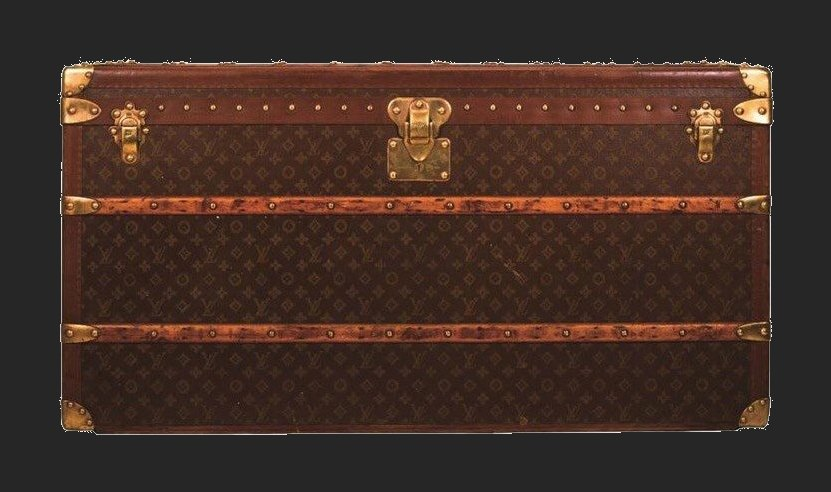
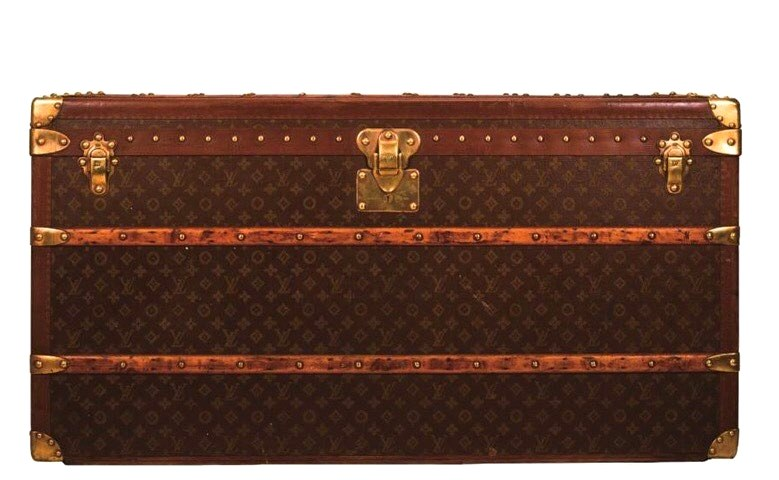
Collections: colour photos, two-per-page arrow pagination, drop items 10-14
- Remove catalogued pieces 10-14 (9 trunks remain).
- Revert trunk photos to colour (re-extracted from PDF, mild contrast/colour
  lift); no charcoal, no grayscale, no letterbox bars — natural aspect on white.
- Replace the endless-scroll list with a pager: two pieces per page, prev/next
  arrows and a NN / NN indicator.
- Gallery (In Context) now renders in colour.

diff --git a/pages/Collections.tsx b/pages/Collections.tsx
@@ -1,4 +1,5 @@
-import React from 'react';
+import React, { useState } from 'react';
+import { ChevronLeft, ChevronRight } from 'lucide-react';
 import { useLanguage } from '../contexts/LanguageContext';
 import {
   collectionIntro,
@@ -7,63 +8,85 @@ import {
   galleryImages,
 } from '../data/collection';
 
-const CHARCOAL = '#262626';
+const PER_PAGE = 2;
 
 const Collections: React.FC = () => {
   const { t, language } = useLanguage();
   const pick = (v: Partial<Record<string, string>> & { en: string }) =>
     v[language] ?? v.en;
 
+  const [page, setPage] = useState(0);
+  const pageCount = Math.ceil(trunkItems.length / PER_PAGE);
+  const start = page * PER_PAGE;
+  const visible = trunkItems.slice(start, start + PER_PAGE);
+
   return (
     <div className="max-w-6xl mx-auto pt-24 pb-16 px-6 lg:px-12 fade-in">
-      <header className="mb-24">
+      <header className="mb-16">
         <h1 className="text-4xl font-display uppercase tracking-widest mb-3">{t.collections.header}</h1>
         <p className="text-2xl font-serif text-ink-black mb-2">{pick(collectionIntro.title)}</p>
         <p className="font-serif text-gray-500 italic max-w-xl">{pick(collectionIntro.subtitle)}</p>
       </header>
 
-      {/* Catalogued pieces — large alternating showcase with hover motion */}
-      <div className="space-y-24 md:space-y-32">
-        {trunkItems.map((item, index) => (
-          <div
-            key={item.id}
-            className={`flex flex-col ${index % 2 === 0 ? 'md:flex-row' : 'md:flex-row-reverse'} gap-10 lg:gap-16 group items-center`}
-          >
-            <div className="w-full md:w-3/5 overflow-hidden" style={{ backgroundColor: CHARCOAL }}>
+      {/* Two pieces per page, navigated with arrows */}
+      <div className="grid grid-cols-1 md:grid-cols-2 gap-12 lg:gap-16 items-start min-h-[60vh]">
+        {visible.map((item, i) => (
+          <div key={item.id} className="fade-in">
+            <div className="w-full mb-6">
               <img
                 src={item.image}
                 alt={pick(item.title)}
-                loading="lazy"
-                className="w-full h-auto aspect-[4/3] object-contain filter grayscale brightness-95 transition-transform duration-1000 group-hover:scale-105"
+                className="w-full h-auto object-contain rounded-sm shadow-sm"
               />
             </div>
-            <div className="w-full md:w-2/5 flex flex-col justify-center items-start">
-              <span className="text-xs font-sans tracking-[0.3em] text-gray-400 mb-4 uppercase">
-                {`N° ${String(index + 1).padStart(2, '0')}`}
-              </span>
-              <h2 className="text-3xl font-serif text-ink-black mb-4 leading-snug">{pick(item.title)}</h2>
-              <p className="text-sm font-sans tracking-wide text-gray-500 mb-5">{pick(item.spec)}</p>
-              {item.note && (
-                <p className="font-serif text-[15px] text-gray-600 leading-relaxed">{pick(item.note)}</p>
-              )}
-            </div>
+            <span className="text-xs font-sans tracking-[0.3em] text-gray-400 uppercase">
+              {`N° ${String(start + i + 1).padStart(2, '0')}`}
+            </span>
+            <h2 className="text-2xl font-serif text-ink-black mt-3 mb-3 leading-snug">{pick(item.title)}</h2>
+            <p className="text-sm font-sans tracking-wide text-gray-500 mb-3">{pick(item.spec)}</p>
+            {item.note && (
+              <p className="font-serif text-[15px] text-gray-600 leading-relaxed">{pick(item.note)}</p>
+            )}
           </div>
         ))}
       </div>
 
-      {/* Uncaptioned pieces — a gallery in the same monochrome register */}
-      <section className="mt-32 pt-14 border-t border-gray-200">
+      {/* Pager */}
+      <div className="flex items-center justify-center gap-8 mt-16">
+        <button
+          onClick={() => setPage((p) => Math.max(0, p - 1))}
+          disabled={page === 0}
+          aria-label="Previous"
+          className="p-2 text-ink-black disabled:text-gray-300 hover:opacity-60 transition-opacity"
+        >
+          <ChevronLeft size={28} strokeWidth={1.2} />
+        </button>
+        <span className="text-xs font-sans tracking-[0.3em] text-gray-500 tabular-nums">
+          {String(page + 1).padStart(2, '0')} / {String(pageCount).padStart(2, '0')}
+        </span>
+        <button
+          onClick={() => setPage((p) => Math.min(pageCount - 1, p + 1))}
+          disabled={page === pageCount - 1}
+          aria-label="Next"
+          className="p-2 text-ink-black disabled:text-gray-300 hover:opacity-60 transition-opacity"
+        >
+          <ChevronRight size={28} strokeWidth={1.2} />
+        </button>
+      </div>
+
+      {/* Uncaptioned pieces — a colour gallery of the collection in context */}
+      <section className="mt-28 pt-14 border-t border-gray-200">
         <h2 className="text-sm font-sans font-bold tracking-[0.3em] text-gray-400 uppercase mb-12">
           {pick(galleryLabel)}
         </h2>
         <div className="grid grid-cols-1 sm:grid-cols-2 gap-8">
           {galleryImages.map((g) => (
-            <div key={g.id} className="overflow-hidden group" style={{ backgroundColor: CHARCOAL }}>
+            <div key={g.id} className="overflow-hidden rounded-sm group">
               <img
                 src={g.image}
                 alt=""
                 loading="lazy"
-                className="w-full h-auto aspect-[4/3] object-cover filter grayscale brightness-95 transition-transform duration-1000 group-hover:scale-105"
+                className="w-full h-auto aspect-[4/3] object-cover transition-transform duration-1000 group-hover:scale-105"
               />
             </div>
           ))}

diff --git a/data/collection.ts b/data/collection.ts
@@ -75,42 +75,6 @@ export const trunkItems: TrunkItem[] = [
     id: 't9', image: '/collections/trunk-09.jpg', title: LV_TITLE,
     spec: spec('ca. 1900 · Made in France · 110 × 55 × 55 cm · monogram “HWS”', '约 1900 年 · 法国制造 · 110 × 55 × 55 cm · 定制缩写 “HWS”'),
   },
-  {
-    id: 't10', image: '/collections/trunk-10.jpg', title: SUITCASE_TITLE,
-    spec: spec('ca. 1900 · Made in France · 110 × 35 × 55 cm · natural leather', '约 1900 年 · 法国制造 · 110 × 35 × 55 cm · 原色皮革'),
-  },
-  {
-    id: 't11', image: '/collections/trunk-11.jpg', title: SUITCASE_TITLE,
-    spec: spec('ca. 1900 · Made in France · 110 × 35 × 55 cm · monogram “WR”', '约 1900 年 · 法国制造 · 110 × 35 × 55 cm · 定制缩写 “WR”'),
-    note: { en: 'Bearing an original “Hôtel Stockholm, Paris” travel label.', zh: '箱身留有原装「Hôtel Stockholm, Paris」旅行标签。' },
-  },
-  {
-    id: 't12', image: '/collections/trunk-12.jpg',
-    title: { en: 'Antique Goyard Champagne Box', zh: '古董 Goyard 香槟箱' },
-    spec: spec('Goyard · Paris', 'Goyard · 巴黎'),
-    note: {
-      en: 'Goyard was founded in 1853 by François Goyard; with more than a century and a half of history, it is among the oldest of the French luggage houses. As nineteenth-century railways and steamships opened up mass travel across Europe, royalty and the wealthy set out on journeys of many months, and bespoke trunks were made for every purpose — book trunks, champagne cases, and more.',
-      zh: 'Goyard 成立于 1853 年，逾百五十年历史，创办人为 François Goyard，是法国最古老的旅行箱世家之一。十九世纪欧洲火车、轮船兴起，掀起大规模旅行风潮；王室与贵族出行动辄数月，遂有各式定制旅行箱——藏书箱、香槟箱等，皆应运而生。',
-    },
-  },
-  {
-    id: 't13', image: '/collections/trunk-13.jpg',
-    title: { en: 'Louis Vuitton Limited-Edition VIP Gift Box — Miss France', zh: '路易威登限量版超级 VIP 礼品箱 — Miss France' },
-    spec: spec('Louis Vuitton · limited edition of five', '路易威登 · 全球限量五只'),
-    note: {
-      en: 'A miniature hard trunk created by Louis Vuitton as a gift for its most valued VIP clients — a limited series of only five, in the new pink vintage monogram. An ultra-limited, sealed piece: a diminutive, treasured objet for the home.',
-      zh: '路易威登超可爱的 mini 版小硬箱，是赠予顶级 VIP 客人的礼物；此系列全球限量五只，采用全新粉色复古花纹，属超级限量的不可开启款——小巧精致，可作家中珍藏。',
-    },
-  },
-  {
-    id: 't14', image: '/collections/trunk-14.jpg',
-    title: { en: '“100 Legendary Trunks” — Louis Vuitton Limited Edition', zh: '《100 只传奇古董箱》路易威登限量版' },
-    spec: spec('Louis Vuitton · limited-edition volume', '路易威登 · 限量典藏图册'),
-    note: {
-      en: 'A limited-edition volume chronicling one hundred of Louis Vuitton’s most legendary trunks.',
-      zh: '一部限量典藏图册，记录路易威登一百只最具传奇色彩的古董箱。',
-    },
-  },
 ];
 
 export const galleryImages: GalleryImage[] = [
